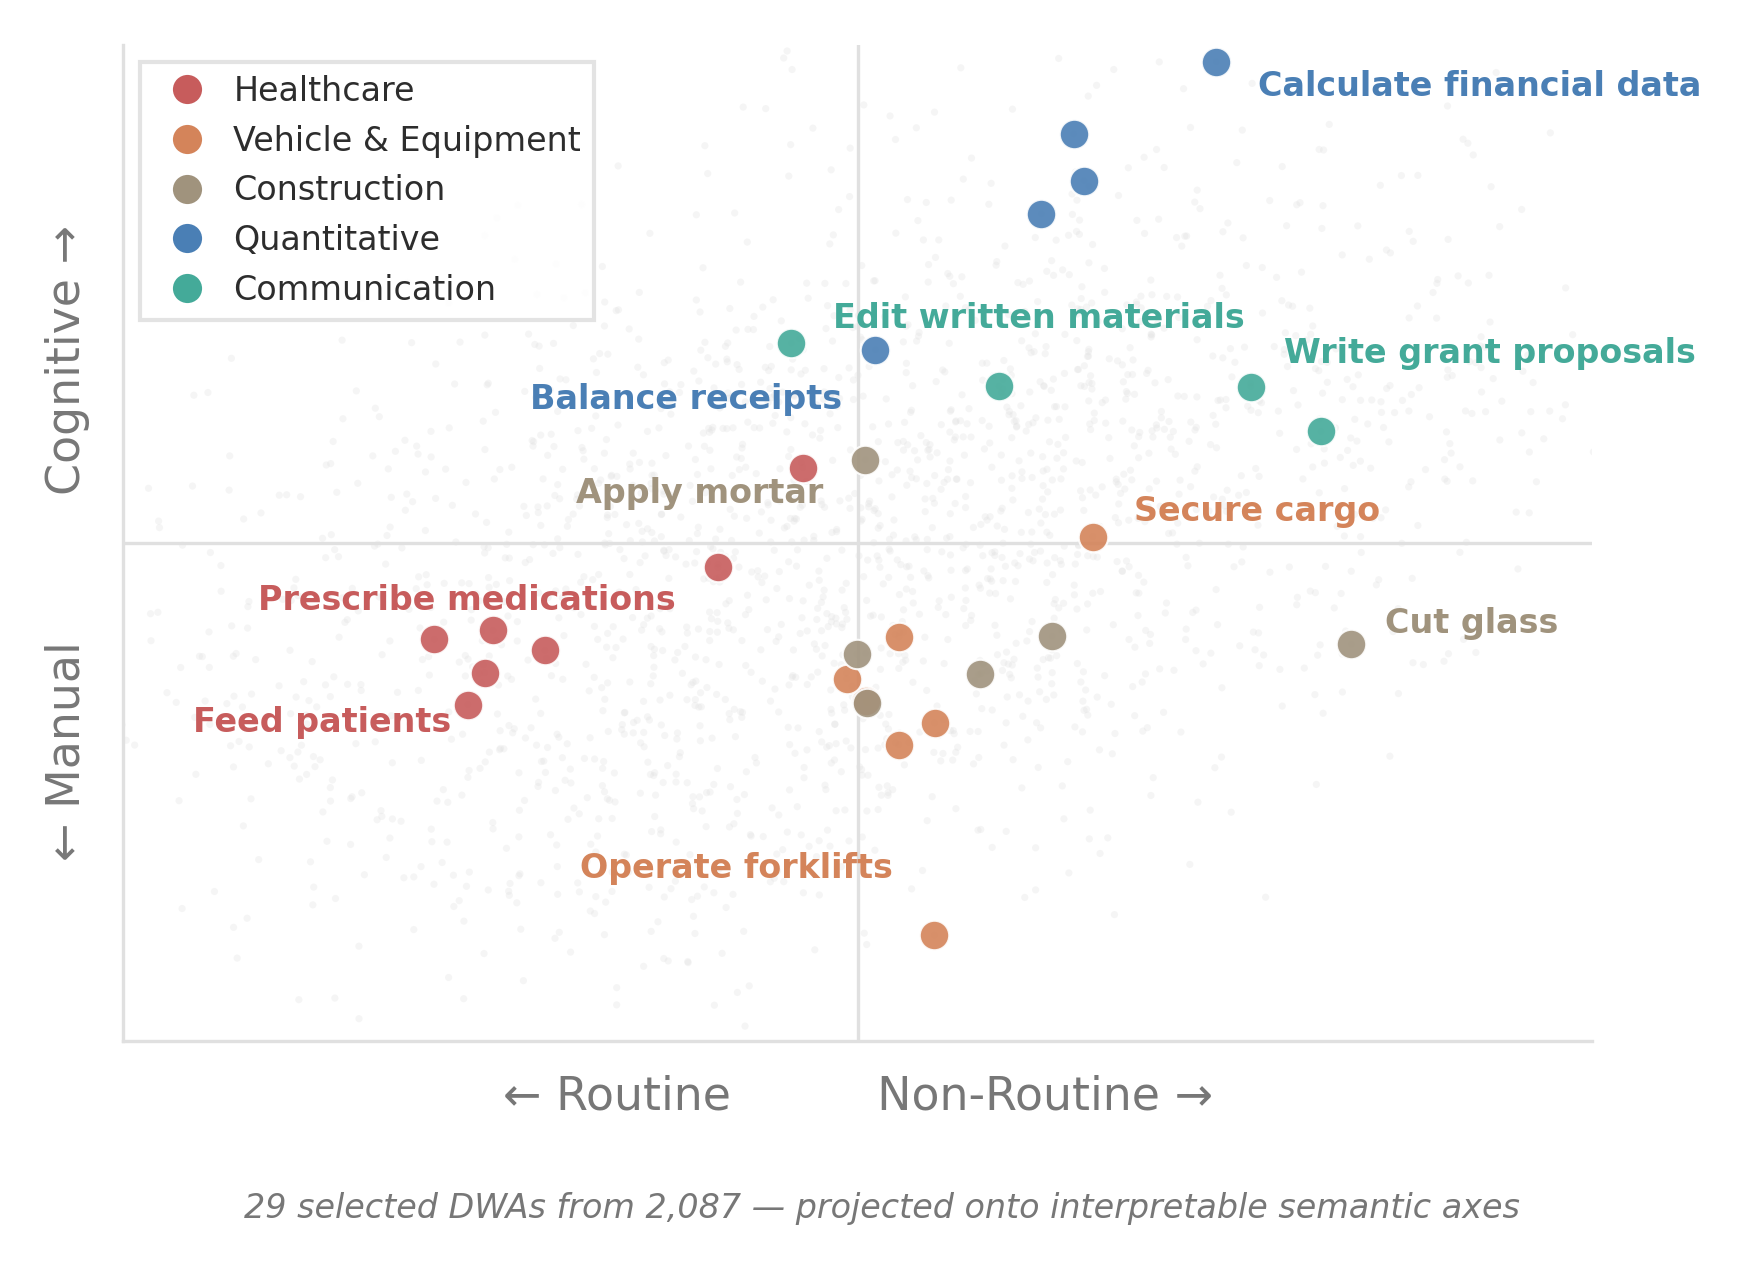
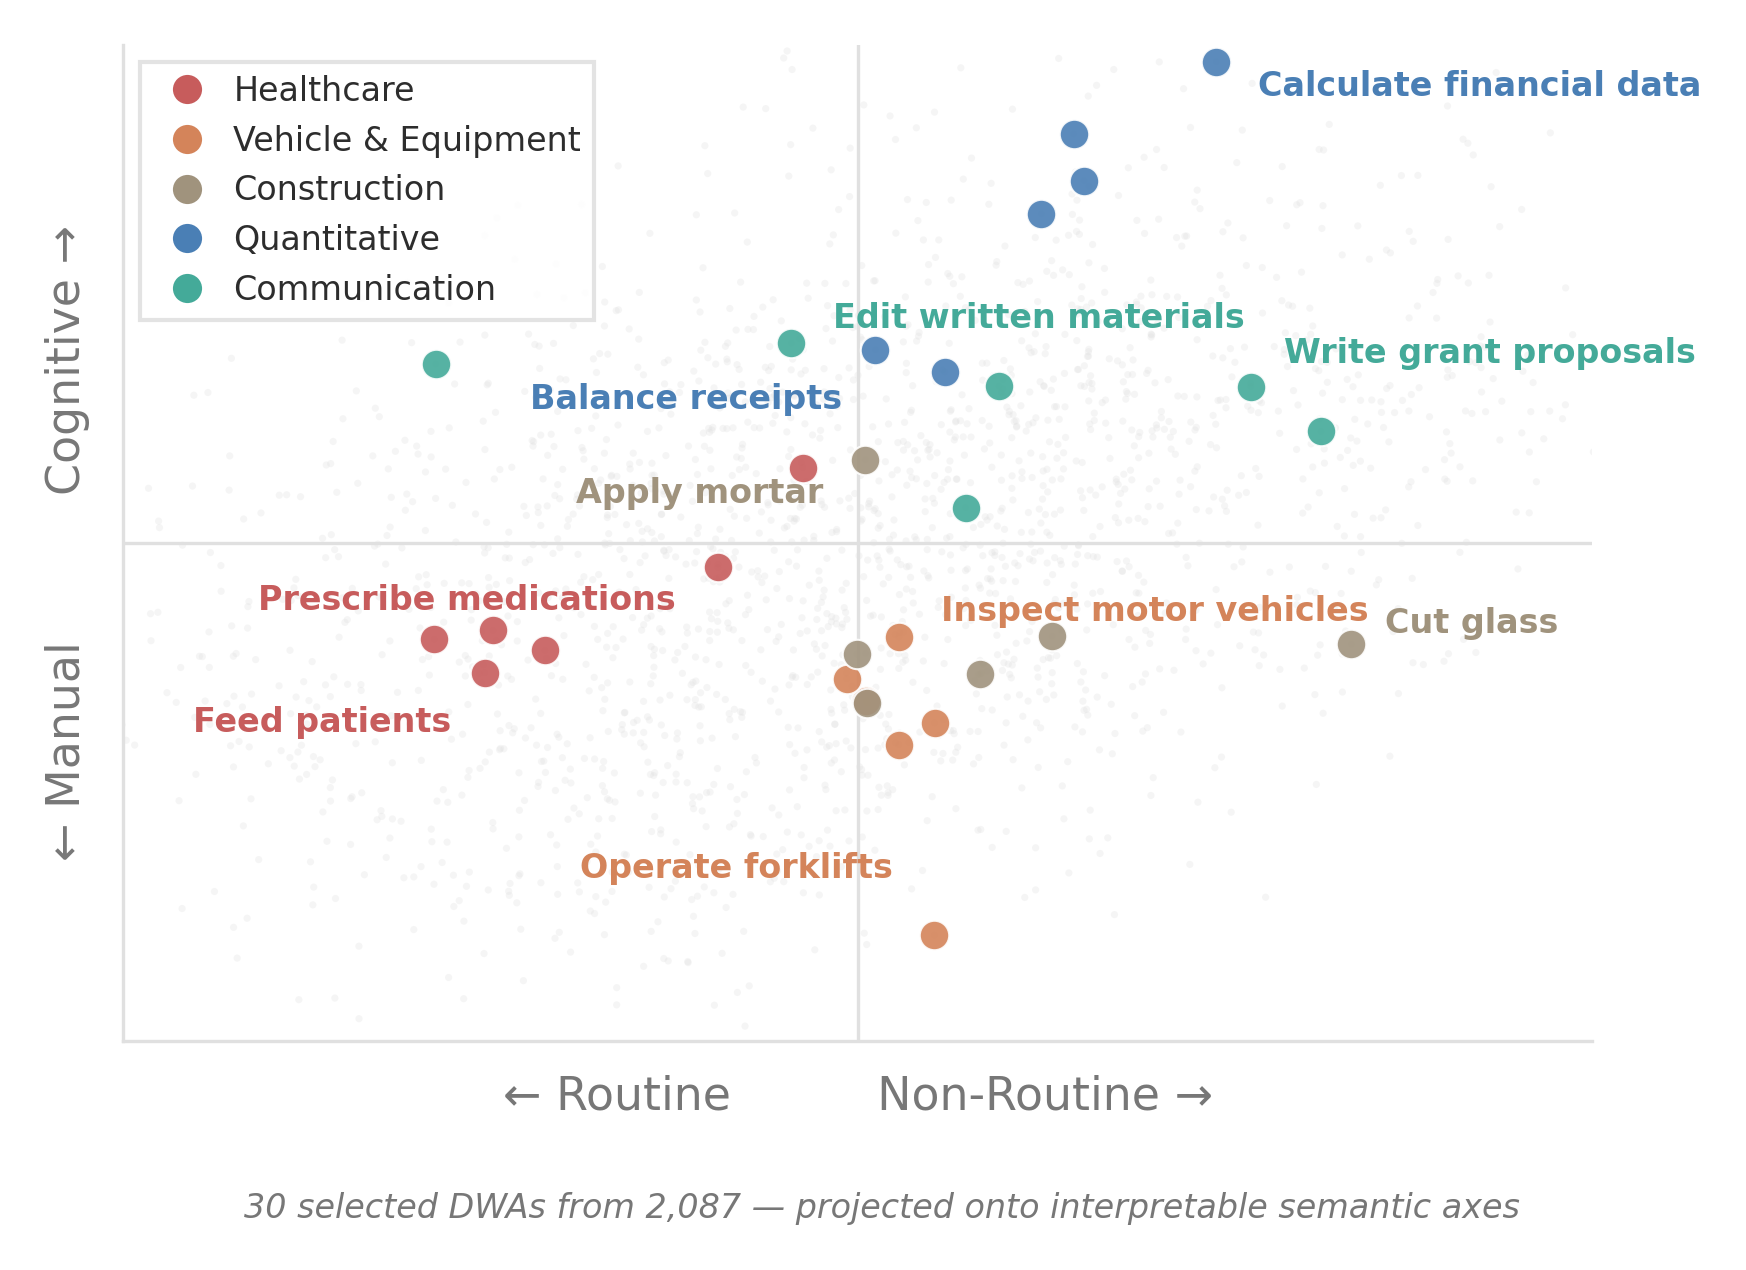
v0.7.10.16: Fig3 rebalance 6 per theme

diff --git a/figures/fig3_task_scatter.py b/figures/fig3_task_scatter.py
@@ -38,13 +38,11 @@ CURATED = {
         'Give medications or immunizations.',
         'Position patients for treatment or examination.',
         'Move patients to or from treatment areas.',
-        'Hold patients to ensure proper positioning or safety.',
         'Test patient vision.',
         'Prescribe medications.',
     ],
     'Vehicle & Equipment': [
         'Pilot aircraft.',
-        'Secure cargo.',
         'Operate forklifts or other loaders.',
         'Inspect motor vehicles.',
         'Clean vehicles or vehicle components.',
@@ -65,12 +63,15 @@ CURATED = {
         'Gather financial records.',
         'Examine financial records.',
         'Assess financial status of clients.',
+        'Prepare operational budgets.',
     ],
     'Communication': [
         'Write grant proposals.',
         'Write reports or evaluations.',
         'Edit documents.',
         'Edit written materials.',
+        'Type documents.',
+        'Transcribe spoken or written information.',
     ],
 }
 
@@ -78,7 +79,7 @@ CURATED = {
 LABELED = {
     'Feed patients.',
     'Prescribe medications.',
-    'Secure cargo.',
+    'Inspect motor vehicles.',
     'Operate forklifts or other loaders.',
     'Cut glass.',
     'Apply mortar.',
@@ -92,7 +93,7 @@ LABELED = {
 LABEL_OFFSETS = {
     'Feed patients.':         (-8, -12),
     'Prescribe medications.': (-10, -8),
-    'Secure cargo.':          (10, 6),
+    'Inspect motor vehicles.': (10, 6),
     'Operate forklifts or other loaders.': (-10, 16),
     'Apply mortar.':          (-10, -8),
     'Cut glass.':             (8, 5),

diff --git a/LEDGER.md b/LEDGER.md
@@ -1,6 +1,6 @@
 # LEDGER.md — Task-Space Oracle Research State
 
-**Current Version:** 0.7.10.15
+**Current Version:** 0.7.10.16
 **Last Updated:** 2026-03-10
 **Paper Draft:** `paper/main.tex`
 
@@ -764,6 +764,7 @@ Deprecated approaches. Do not retry.
 | Version | Date | Changes |
 |---------|------|---------|
 | 0.7.9.3 | 2026-03-09 | Captions for fig3/fig4, swap fig5/fig6 to Budget vs Credit Analysts. |
+| 0.7.10.16 | 2026-03-10 | Fig3 rebalance 6 per theme = 30 DWAs, 10 labels. Added Transcribe, Type documents, Prepare budgets. |
 | 0.7.10.15 | 2026-03-10 | Fig3 swap Test patient vision for Prescribe medications label. 29 DWAs, 10 labels. |
 | 0.7.10.14 | 2026-03-10 | Fig3 three more labels (Apply mortar, Calculate financial data, Edit written materials), legend upper-left. 28 DWAs, 10 labels. |
 | 0.7.10.13 | 2026-03-10 | Fig3 swap Pilot Aircraft for Secure Cargo + Operate Forklifts labels. 27 DWAs, 7 labels. |
